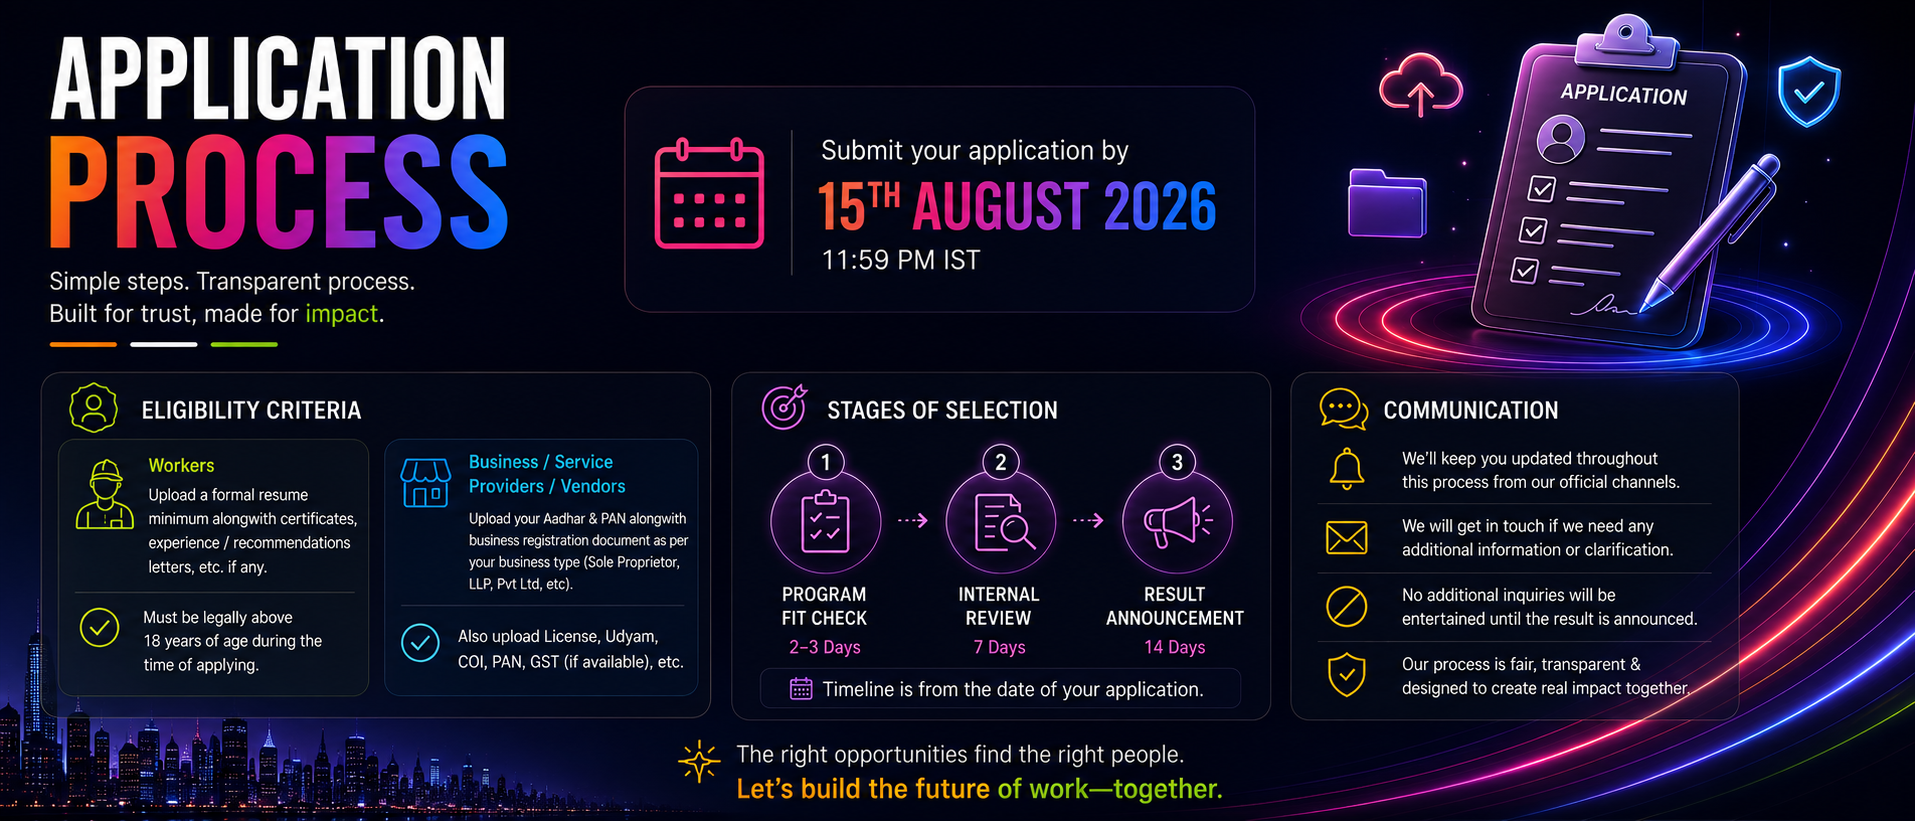
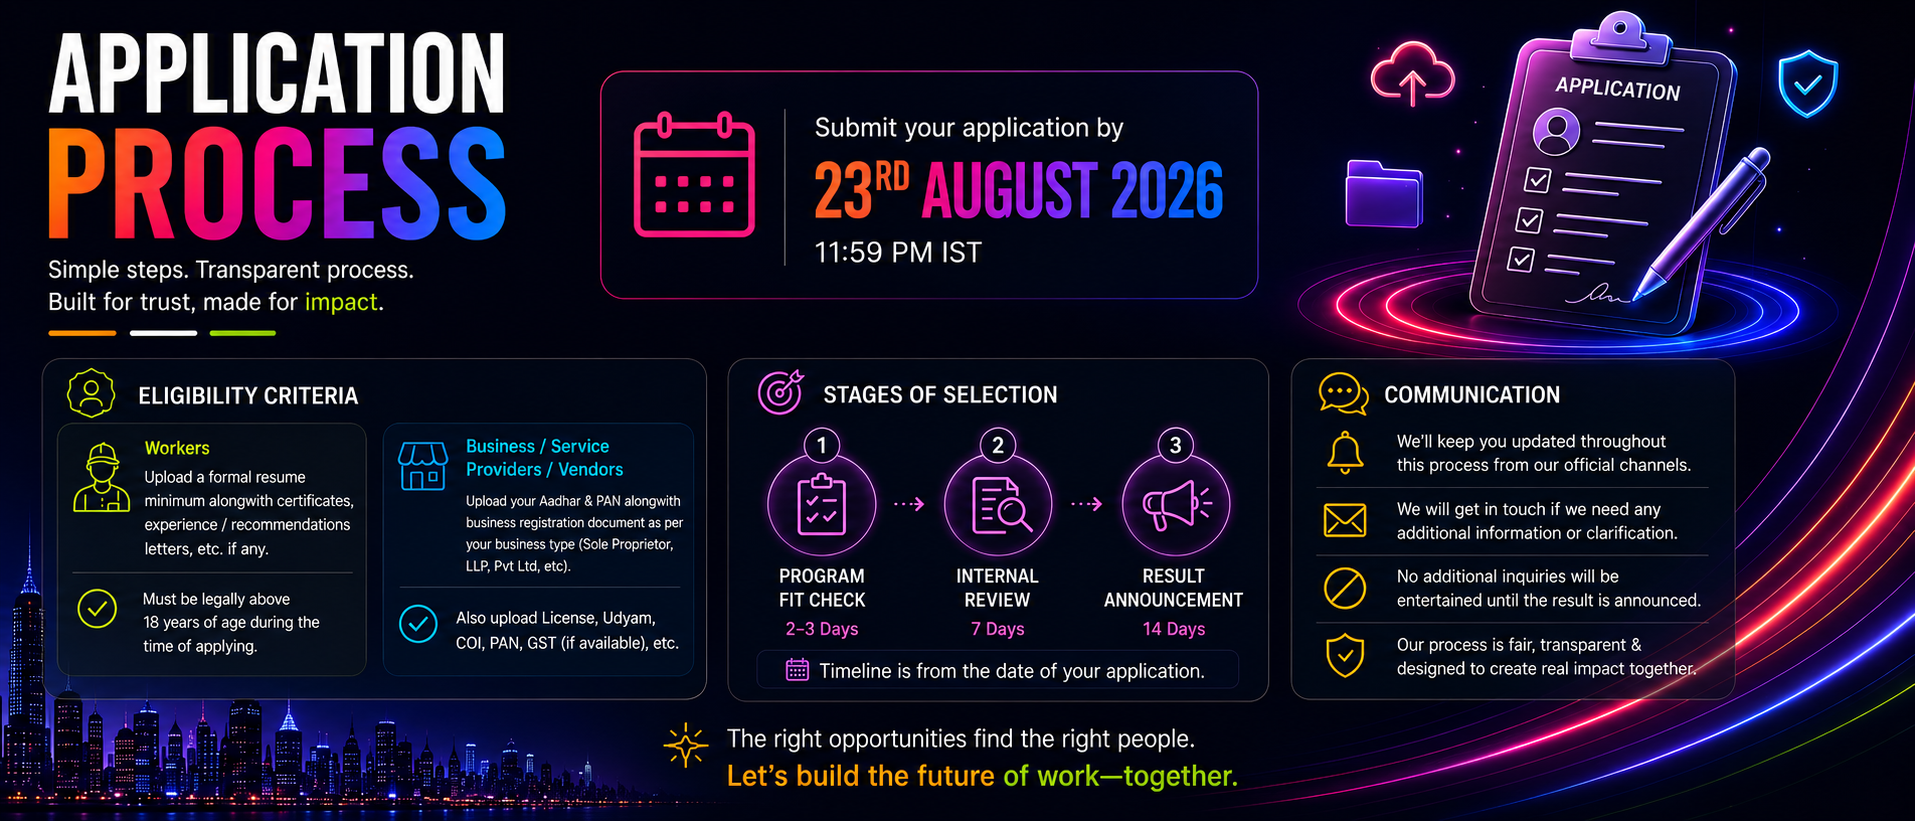
Link About Us Early Builder button to form

diff --git a/src/pages/AboutUs.jsx b/src/pages/AboutUs.jsx
@@ -1,7 +1,9 @@
+import { useState } from 'react'
 import { Link } from 'react-router-dom'
 import Footer from '../components/Footer'
 import OurVerticals from '../components/OurVerticals'
 import PhotoWall from '../components/PhotoWall'
+import EarlyBuildersForm from '../components/EarlyBuildersForm'
 import aboutHero from '../assets/aboutus/aboutushero.png'
 import onceImage from '../assets/aboutus/once.png'
 
@@ -34,6 +36,8 @@ const testimonials = [
 ]
 
 function AboutUs() {
+  const [isBuildersOpen, setIsBuildersOpen] = useState(false)
+
   return (
     <div className="min-h-screen bg-[#05050A] text-white">
       {/* ========== HERO ========== */}
@@ -538,12 +542,12 @@ function AboutUs() {
           Here's how to become part of the movement.
         </p>
         <div className="flex flex-col sm:flex-row items-center justify-center gap-4">
-          <Link
-            to="/"
+          <button
+            onClick={() => setIsBuildersOpen(true)}
             className="px-8 py-3.5 rounded-full font-semibold text-white bg-gradient-to-r from-orange-500 via-pink-500 to-purple-500 hover:opacity-90 transition"
           >
             Join as Early Builder
-          </Link>
+          </button>
           <Link
             to="/application-process"
             className="px-8 py-3.5 rounded-full font-semibold text-white border border-white/20 hover:bg-white/10 transition"
@@ -552,6 +556,11 @@ function AboutUs() {
           </Link>
         </div>
       </section>
+
+      <EarlyBuildersForm
+        isOpen={isBuildersOpen}
+        onClose={() => setIsBuildersOpen(false)}
+      />
 
       <Footer />
     </div>
